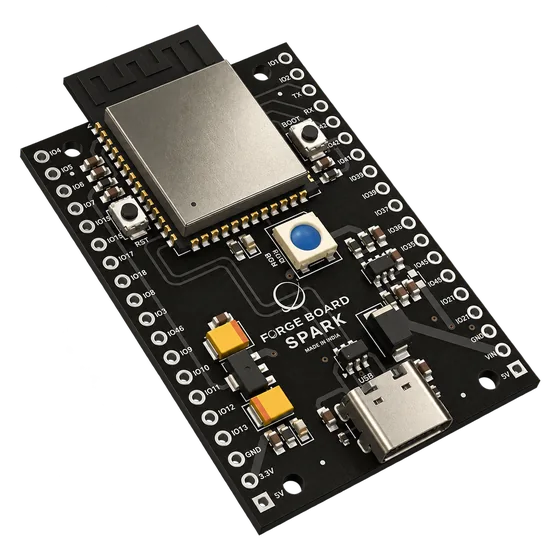
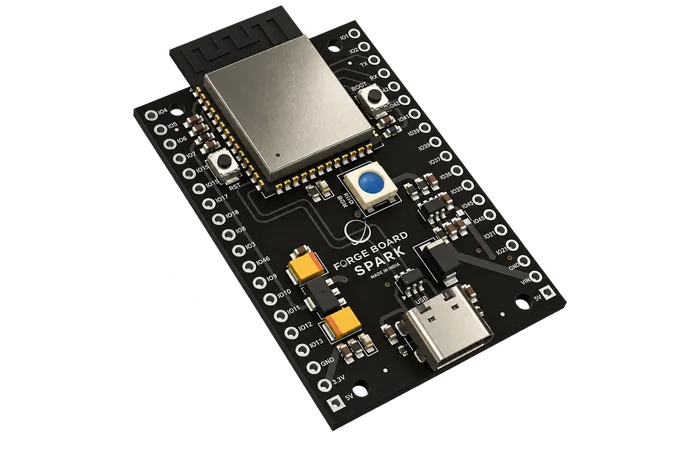
assets: keep the boards inside their rows, and centred in them
The square frames made every picture overflow its row and cut through the
divider below it. The cause is not obvious from the stylesheet: the row caps
its picture at 82%, but the picture's intrinsic size comes from srcset and
sizes, not from the file — here 341x341 — so on a square frame the cap lands
at 276px against a 217px slot and 50px of board hangs into the next row. The
old renders never showed it because they were landscape, where the cap falls
on the short side.

So the frame is 3:2 again, the shape the row was built around, with each
board's longest side at 62% of the width. That keeps what the square frame
was for — a portrait board and a landscape one reading the same size, which
normalising on height did not do — while the cap lands where the layout
expects. All four now measure 169-171px on their longest side, and the
pictures sit inside their rows: 60px of clearance above, 52 below.

Then the centring, measured off the rendered page rather than assumed. Each
board sat 4 to 8px below its row's centre line — part the picture box, part
where the PCB sits inside its own render, and different for each board. Each
is nudged up by its own measured amount. Clearances are now 74/74, 80/81,
68/68 and 79/79, and horizontally every board is within 3px of centre.

diff --git a/site/boards/sprint/index.html b/site/boards/sprint/index.html
@@ -43,10 +43,10 @@
       <div class="pdp-board">
       <fb-board src="../../assets/models/sprint.glb?v=59dbaf28"
         data-model="../../assets/models/sprint.glb?v=59dbaf28"
-        data-v-3d="../../assets/boards/sprint-3d.webp" data-s-3d="../../assets/boards/sprint-3d-sm.webp 560w, ../../assets/boards/sprint-3d.webp 1200w"
+        data-v-3d="../../assets/boards/sprint-3d.webp" data-s-3d="../../assets/boards/sprint-3d-sm.webp 700w, ../../assets/boards/sprint-3d.webp 1500w"
         data-v-top="../../assets/boards/sprint-top.webp" data-s-top="../../assets/boards/sprint-top-sm.webp 700w, ../../assets/boards/sprint-top.webp 1086w"
         data-v-bottom="../../assets/boards/sprint-bottom.webp" data-s-bottom="../../assets/boards/sprint-bottom-sm.webp 677w, ../../assets/boards/sprint-bottom.webp 1234w"
-        fallback="../../assets/boards/sprint-3d.webp" srcset="../../assets/boards/sprint-3d-sm.webp 560w, ../../assets/boards/sprint-3d.webp 1200w" sizes="(max-width:860px) 88vw, 55vw" alt="ForgeBoard Sprint 3D view" tilt="14" roll="225">
+        fallback="../../assets/boards/sprint-3d.webp" srcset="../../assets/boards/sprint-3d-sm.webp 700w, ../../assets/boards/sprint-3d.webp 1500w" sizes="(max-width:860px) 88vw, 55vw" alt="ForgeBoard Sprint 3D view" tilt="14" roll="225">
         <noscript><img src="../../assets/boards/sprint-3d-sm.webp" alt="ForgeBoard Sprint 3D view" style="width:100%;height:100%;object-fit:contain"></noscript>
       </fb-board>
       <div class="hs" data-hs-layer><p class="hs-lede eyebrow mono-muted">On the board</p><ol class="hs-list"><li class="hs-item"><button type="button" class="hs-pt hs-l" data-hs="dht" data-p="0.00342,0.01754,0.02412" data-n="0,1,0" data-side="l" data-spec="Sensors"><span class="hs-txt"><b>(DHT11)</b><i>Temperature + Humidity</i></span></button></li><li class="hs-item"><button type="button" class="hs-pt hs-l" data-hs="led" data-p="-0.00455,0.00267,0.00410" data-n="0,1,0" data-side="l" data-spec="LEDs"><span class="hs-txt"><b>LED</b></span></button></li><li class="hs-item"><button type="button" class="hs-pt hs-l" data-hs="buzzer" data-p="0.01600,0.01157,0.01845" data-n="0,1,0" data-side="l" data-spec="Sensors"><span class="hs-txt"><b>Piezo Buzzer</b></span></button></li><li class="hs-item"><button type="button" class="hs-pt hs-l" data-hs="ldr" data-p="0.02470,0.00604,0.01484" data-n="0,1,0" data-side="l" data-spec="Sensors"><span class="hs-txt"><b>LDR Sensor</b></span></button></li><li class="hs-item"><button type="button" class="hs-pt hs-l" data-hs="ir" data-p="0.02640,0.00990,0.00429" data-n="0,1,0" data-side="l" data-spec="Sensors"><span class="hs-txt"><b>Infrared Sensor</b></span></button></li><li class="hs-item"><button type="button" class="hs-pt hs-l" data-hs="bms" data-p="0.01098,0.00379,0.00456" data-n="0,1,0" data-side="l" data-spec="Battery"><span class="hs-txt"><b>Battery Charging (BMS)</b></span></button></li><li class="hs-item"><button type="button" class="hs-pt hs-r" data-hs="usb" data-p="-0.00980,0.00535,0.02126" data-n="0,1,0" data-side="r" data-spec="USB"><span class="hs-txt"><b>USB‑C for programming</b></span></button></li><li class="hs-item"><button type="button" class="hs-pt hs-r" data-hs="antenna" data-p="-0.02840,0.00304,-0.00180" data-n="0,1,0" data-side="r" data-spec="Wi‑Fi"><span class="hs-txt"><b>WiFi + BLE 5.0</b></span></button></li><li class="hs-item"><button type="button" class="hs-pt hs-r" data-hs="mcu" data-p="-0.01800,0.00514,-0.00190" data-n="0,1,0" data-side="r" data-spec="Processor"><span class="hs-txt"><b>ESP32 S3</b><i>Dual Core 240 MHz</i></span></button></li><li class="hs-item"><button type="button" class="hs-pt hs-r" data-hs="rgb" data-p="-0.00365,0.00334,-0.00905" data-n="0,1,0" data-side="r" data-spec="LEDs"><span class="hs-txt"><b>RGB LED</b><i>16M Colours</i></span></button></li><li class="hs-item"><button type="button" class="hs-pt hs-r" data-hs="gpio" data-p="-0.00540,0.00495,-0.01900" data-n="0,1,0" data-side="r" data-spec="GPIO"><span class="hs-txt"><b>19 GPIO Pins</b><i>SPI · I2C · UART · I2S · CAN · USB OTG</i></span></button></li><li class="hs-item"><button type="button" class="hs-pt hs-r" data-hs="charge" data-p="0.01134,0.00535,-0.02127" data-n="0,1,0" data-side="r" data-spec="Battery"><span class="hs-txt"><b>USB‑C for charging</b></span></button></li></ol><svg class="hs-wires" aria-hidden="true"></svg></div>

diff --git a/site/boards/index.html b/site/boards/index.html
@@ -52,7 +52,7 @@
             <h2><span class="nm">Spark</span><span class="tg">Start here.</span></h2>
             <p class="eyebrow mono-muted">ESP32‑S3 · 240 MHz dual‑core</p>
           </div>
-          <div class="art"><img src="../assets/boards/spark-3d.webp" srcset="../assets/boards/spark-3d-sm.webp 560w, ../assets/boards/spark-3d.webp 1200w" sizes="(max-width:860px) 70vw, 24vw" alt="ForgeBoard Spark board" loading="lazy" decoding="async"></div>
+          <div class="art"><img src="../assets/boards/spark-3d.webp" srcset="../assets/boards/spark-3d-sm.webp 700w, ../assets/boards/spark-3d.webp 1500w" sizes="(max-width:860px) 70vw, 24vw" alt="ForgeBoard Spark board" loading="lazy" decoding="async"></div>
           <ul class="hl"><li>Breadboard‑friendly, 32 GPIO</li><li>Wi‑Fi &amp; Bluetooth 5.0 built in</li><li>Survives static &amp; reversed power</li><li>USB‑C — no adapter, no driver hunt</li><li>RGB LED for your first “hello”</li><li>One-click flash from the ForgeBoard IDE</li></ul>
         </a>
       </li>
@@ -63,7 +63,7 @@
             <h2><span class="nm">Sprint</span><span class="tg">Ready before you are.</span></h2>
             <p class="eyebrow mono-muted">ESP32‑S3 · 240 MHz dual‑core</p>
           </div>
-          <div class="art"><img src="../assets/boards/sprint-3d.webp" srcset="../assets/boards/sprint-3d-sm.webp 560w, ../assets/boards/sprint-3d.webp 1200w" sizes="(max-width:860px) 70vw, 24vw" alt="ForgeBoard Sprint board" loading="lazy" decoding="async"></div>
+          <div class="art"><img src="../assets/boards/sprint-3d.webp" srcset="../assets/boards/sprint-3d-sm.webp 700w, ../assets/boards/sprint-3d.webp 1500w" sizes="(max-width:860px) 70vw, 24vw" alt="ForgeBoard Sprint board" loading="lazy" decoding="async"></div>
           <ul class="hl"><li>4 sensors &amp; a buzzer on board</li><li>Charges a Li‑ion cell — runs unplugged</li><li>Wi‑Fi &amp; Bluetooth 5.0 built in</li><li>19 GPIO still free for your parts</li><li>USB‑C, ESD &amp; thermal protection</li><li>Updates over the air — Wi‑Fi or BLE</li></ul>
         </a>
       </li>
@@ -74,7 +74,7 @@
             <h2><span class="nm">Indus</span><span class="tg">For your toughest challenges.</span></h2>
             <p class="eyebrow mono-muted">STM32G4 · 170 MHz Cortex‑M4F</p>
           </div>
-          <div class="art"><img src="../assets/boards/indus-3d.webp" srcset="../assets/boards/indus-3d-sm.webp 560w, ../assets/boards/indus-3d.webp 1200w" sizes="(max-width:860px) 70vw, 24vw" alt="ForgeBoard Indus board" loading="lazy" decoding="async"></div>
+          <div class="art"><img src="../assets/boards/indus-3d.webp" srcset="../assets/boards/indus-3d-sm.webp 700w, ../assets/boards/indus-3d.webp 1500w" sizes="(max-width:860px) 70vw, 24vw" alt="ForgeBoard Indus board" loading="lazy" decoding="async"></div>
           <ul class="hl"><li>Rated –40 to +85 °C</li><li>3 CAN FD buses at 8 Mbit/s</li><li>Encrypts in hardware, AES‑256</li><li>Shrugs off ±15 kV static</li><li>Drives motors with 184 ps timing</li><li>Debug over SWD, 50 GPIO</li></ul>
         </a>
       </li>
@@ -85,7 +85,7 @@
             <h2><span class="nm">Flint</span><span class="tg">Small board. Long reach.</span></h2>
             <p class="eyebrow mono-muted">ESP8266 · 80–160 MHz</p>
           </div>
-          <div class="art"><img src="../assets/boards/flint-3d.webp" srcset="../assets/boards/flint-3d-sm.webp 560w, ../assets/boards/flint-3d.webp 1200w" sizes="(max-width:860px) 70vw, 24vw" alt="ForgeBoard Flint board" loading="lazy" decoding="async"></div>
+          <div class="art"><img src="../assets/boards/flint-3d.webp" srcset="../assets/boards/flint-3d-sm.webp 700w, ../assets/boards/flint-3d.webp 1500w" sizes="(max-width:860px) 70vw, 24vw" alt="ForgeBoard Flint board" loading="lazy" decoding="async"></div>
           <ul class="hl"><li>50 × 30 mm</li><li>Months on a battery — 20 µA asleep</li><li>Wi‑Fi with +20 dBm on‑board antenna</li><li>USB‑C, no driver hunt</li><li>Reverse‑polarity protected</li><li>Same ForgeBoard IDE as the rest</li></ul>
         </a>
       </li>

diff --git a/site/store/index.html b/site/store/index.html
@@ -57,7 +57,7 @@
             <h2><span class="nm">Spark</span><span class="tg">Start here.</span></h2>
             <p class="eyebrow mono-muted">ESP32‑S3 · 240 MHz · Wi‑Fi 4 + BLE 5.0 · 32 GPIO</p>
           </div>
-          <div class="art"><img src="../assets/boards/spark-3d.webp" srcset="../assets/boards/spark-3d-sm.webp 560w, ../assets/boards/spark-3d.webp 1200w" sizes="(max-width:860px) 70vw, 24vw" alt="ForgeBoard Spark board" loading="lazy" decoding="async"></div>
+          <div class="art"><img src="../assets/boards/spark-3d.webp" srcset="../assets/boards/spark-3d-sm.webp 700w, ../assets/boards/spark-3d.webp 1500w" sizes="(max-width:860px) 70vw, 24vw" alt="ForgeBoard Spark board" loading="lazy" decoding="async"></div>
           <ul class="hl"><li>Ships from Pune</li><li>Priced in ₹, GST invoice</li><li>Specs &amp; order →</li></ul>
         </a>
       </li>
@@ -68,7 +68,7 @@
             <h2><span class="nm">Sprint</span><span class="tg">Ready before you are.</span></h2>
             <p class="eyebrow mono-muted">ESP32‑S3 · 240 MHz · Wi‑Fi 4 + BLE 5.0 · 19 GPIO</p>
           </div>
-          <div class="art"><img src="../assets/boards/sprint-3d.webp" srcset="../assets/boards/sprint-3d-sm.webp 560w, ../assets/boards/sprint-3d.webp 1200w" sizes="(max-width:860px) 70vw, 24vw" alt="ForgeBoard Sprint board" loading="lazy" decoding="async"></div>
+          <div class="art"><img src="../assets/boards/sprint-3d.webp" srcset="../assets/boards/sprint-3d-sm.webp 700w, ../assets/boards/sprint-3d.webp 1500w" sizes="(max-width:860px) 70vw, 24vw" alt="ForgeBoard Sprint board" loading="lazy" decoding="async"></div>
           <ul class="hl"><li>Ships from Pune</li><li>Priced in ₹, GST invoice</li><li>Specs &amp; order →</li></ul>
         </a>
       </li>
@@ -79,7 +79,7 @@
             <h2><span class="nm">Indus</span><span class="tg">For your toughest challenges.</span></h2>
             <p class="eyebrow mono-muted">STM32G484 · 170 MHz · 50 GPIO</p>
           </div>
-          <div class="art"><img src="../assets/boards/indus-3d.webp" srcset="../assets/boards/indus-3d-sm.webp 560w, ../assets/boards/indus-3d.webp 1200w" sizes="(max-width:860px) 70vw, 24vw" alt="ForgeBoard Indus board" loading="lazy" decoding="async"></div>
+          <div class="art"><img src="../assets/boards/indus-3d.webp" srcset="../assets/boards/indus-3d-sm.webp 700w, ../assets/boards/indus-3d.webp 1500w" sizes="(max-width:860px) 70vw, 24vw" alt="ForgeBoard Indus board" loading="lazy" decoding="async"></div>
           <ul class="hl"><li>Ships from Pune</li><li>Priced in ₹, GST invoice</li><li>Specs &amp; order →</li></ul>
         </a>
       </li>
@@ -90,7 +90,7 @@
             <h2><span class="nm">Flint</span><span class="tg">Small board. Long reach.</span></h2>
             <p class="eyebrow mono-muted">ESP8266EX · 80–160 MHz · Wi‑Fi 4 · 12 GPIO</p>
           </div>
-          <div class="art"><img src="../assets/boards/flint-3d.webp" srcset="../assets/boards/flint-3d-sm.webp 560w, ../assets/boards/flint-3d.webp 1200w" sizes="(max-width:860px) 70vw, 24vw" alt="ForgeBoard Flint board" loading="lazy" decoding="async"></div>
+          <div class="art"><img src="../assets/boards/flint-3d.webp" srcset="../assets/boards/flint-3d-sm.webp 700w, ../assets/boards/flint-3d.webp 1500w" sizes="(max-width:860px) 70vw, 24vw" alt="ForgeBoard Flint board" loading="lazy" decoding="async"></div>
           <ul class="hl"><li>Ships from Pune</li><li>Priced in ₹, GST invoice</li><li>Specs &amp; order →</li></ul>
         </a>
       </li>

diff --git a/site/boards/indus/index.html b/site/boards/indus/index.html
@@ -43,10 +43,10 @@
       <div class="pdp-board">
       <fb-board src="../../assets/models/indus.glb?v=6863ef5b"
         data-model="../../assets/models/indus.glb?v=6863ef5b"
-        data-v-3d="../../assets/boards/indus-3d.webp" data-s-3d="../../assets/boards/indus-3d-sm.webp 560w, ../../assets/boards/indus-3d.webp 1200w"
+        data-v-3d="../../assets/boards/indus-3d.webp" data-s-3d="../../assets/boards/indus-3d-sm.webp 700w, ../../assets/boards/indus-3d.webp 1500w"
         data-v-top="../../assets/boards/indus-top.webp" data-s-top="../../assets/boards/indus-top-sm.webp 466w, ../../assets/boards/indus-top.webp 933w"
         data-v-bottom="../../assets/boards/indus-bottom.webp" data-s-bottom="../../assets/boards/indus-bottom-sm.webp 466w, ../../assets/boards/indus-bottom.webp 933w"
-        fallback="../../assets/boards/indus-3d.webp" srcset="../../assets/boards/indus-3d-sm.webp 560w, ../../assets/boards/indus-3d.webp 1200w" sizes="(max-width:860px) 88vw, 55vw" alt="ForgeBoard Indus 3D view" tilt="14" roll="30">
+        fallback="../../assets/boards/indus-3d.webp" srcset="../../assets/boards/indus-3d-sm.webp 700w, ../../assets/boards/indus-3d.webp 1500w" sizes="(max-width:860px) 88vw, 55vw" alt="ForgeBoard Indus 3D view" tilt="14" roll="30">
         <noscript><img src="../../assets/boards/indus-3d-sm.webp" alt="ForgeBoard Indus 3D view" style="width:100%;height:100%;object-fit:contain"></noscript>
       </fb-board>
       <div class="hs" data-hs-layer><p class="hs-lede eyebrow mono-muted">On the board</p><ol class="hs-list"><li class="hs-item"><button type="button" class="hs-pt hs-l" data-hs="mcu" data-p="0.00043,0.00354,-0.00927" data-n="0,1,0" data-side="l" data-spec="Processor"><span class="hs-txt"><b>STM32G484</b><i>Cortex‑M4F · 170 MHz</i></span></button></li><li class="hs-item"><button type="button" class="hs-pt hs-l" data-hs="xtal" data-p="0.00086,0.00317,-0.02000" data-n="0,1,0" data-side="l" data-spec="Timers &amp; PWM"><span class="hs-txt"><b>Crystal</b><i>External oscillator</i></span></button></li><li class="hs-item"><button type="button" class="hs-pt hs-r" data-hs="usb" data-p="0.00003,0.00535,0.02432" data-n="0,1,0" data-side="r" data-spec="USB"><span class="hs-txt"><b>USB‑C</b><i>Power + programming</i></span></button></li><li class="hs-item"><button type="button" class="hs-pt hs-l" data-hs="rgb" data-p="-0.00932,0.00334,0.00240" data-n="0,1,0" data-side="l" data-spec="LEDs"><span class="hs-txt"><b>RGB LED</b><i>16M Colours · PA12</i></span></button></li><li class="hs-item"><button type="button" class="hs-pt hs-r" data-hs="boot" data-p="0.00944,0.00404,-0.01541" data-n="0,1,0" data-side="r" data-spec="Buttons"><span class="hs-txt"><b>BOOT</b></span></button></li><li class="hs-item"><button type="button" class="hs-pt hs-r" data-hs="rst" data-p="0.00406,0.00404,0.00030" data-n="0,1,0" data-side="r" data-spec="Buttons"><span class="hs-txt"><b>RST</b></span></button></li><li class="hs-item"><button type="button" class="hs-pt hs-l" data-hs="swd" data-p="0.00000,0.00495,-0.02400" data-n="0,1,0" data-side="l" data-spec="Debug"><span class="hs-txt"><b>SWD Debug</b><i>SWCLK · SWDIO · SWO</i></span></button></li><li class="hs-item"><button type="button" class="hs-pt hs-r" data-hs="gpio" data-p="0.01500,0.00495,0.00200" data-n="0,1,0" data-side="r" data-spec="GPIO"><span class="hs-txt"><b>50 GPIO Pins</b><i>CAN FD · I2C · SPI · UART</i></span></button></li></ol><svg class="hs-wires" aria-hidden="true"></svg></div>

diff --git a/site/boards/spark/index.html b/site/boards/spark/index.html
@@ -43,10 +43,10 @@
       <div class="pdp-board">
       <fb-board src="../../assets/models/spark.glb?v=510ef41c"
         data-model="../../assets/models/spark.glb?v=510ef41c"
-        data-v-3d="../../assets/boards/spark-3d.webp" data-s-3d="../../assets/boards/spark-3d-sm.webp 560w, ../../assets/boards/spark-3d.webp 1200w"
+        data-v-3d="../../assets/boards/spark-3d.webp" data-s-3d="../../assets/boards/spark-3d-sm.webp 700w, ../../assets/boards/spark-3d.webp 1500w"
         data-v-top="../../assets/boards/spark-top.webp" data-s-top="../../assets/boards/spark-top-sm.webp 466w, ../../assets/boards/spark-top.webp 933w"
         data-v-bottom="../../assets/boards/spark-bottom.webp" data-s-bottom="../../assets/boards/spark-bottom-sm.webp 466w, ../../assets/boards/spark-bottom.webp 933w"
-        fallback="../../assets/boards/spark-3d.webp" srcset="../../assets/boards/spark-3d-sm.webp 560w, ../../assets/boards/spark-3d.webp 1200w" sizes="(max-width:860px) 88vw, 55vw" alt="ForgeBoard Spark 3D view" tilt="14" roll="45">
+        fallback="../../assets/boards/spark-3d.webp" srcset="../../assets/boards/spark-3d-sm.webp 700w, ../../assets/boards/spark-3d.webp 1500w" sizes="(max-width:860px) 88vw, 55vw" alt="ForgeBoard Spark 3D view" tilt="14" roll="45">
         <noscript><img src="../../assets/boards/spark-3d-sm.webp" alt="ForgeBoard Spark 3D view" style="width:100%;height:100%;object-fit:contain"></noscript>
       </fb-board>
       <div class="hs" data-hs-layer><p class="hs-lede eyebrow mono-muted">On the board</p><ol class="hs-list"><li class="hs-item"><button type="button" class="hs-pt hs-l" data-hs="mcu" data-p="0.00030,0.00514,-0.01540" data-n="0,1,0" data-side="l" data-spec="Processor"><span class="hs-txt"><b>ESP32 S3</b><i>Dual Core 240 MHz</i></span></button></li><li class="hs-item"><button type="button" class="hs-pt hs-l" data-hs="antenna" data-p="0.00020,0.00304,-0.02579" data-n="0,1,0" data-side="l" data-spec="Wi‑Fi"><span class="hs-txt"><b>WiFi + BLE 5.0</b></span></button></li><li class="hs-item"><button type="button" class="hs-pt hs-r" data-hs="usb" data-p="0.00063,0.00535,0.02128" data-n="0,1,0" data-side="r" data-spec="USB"><span class="hs-txt"><b>USB‑C</b><i>Power + programming</i></span></button></li><li class="hs-item"><button type="button" class="hs-pt hs-r" data-hs="rgb" data-p="0.00390,0.00334,-0.00050" data-n="0,1,0" data-side="r" data-spec="LEDs"><span class="hs-txt"><b>RGB LED</b><i>16M Colours · IO14</i></span></button></li><li class="hs-item"><button type="button" class="hs-pt hs-l" data-hs="rst" data-p="-0.01160,0.00404,-0.01172" data-n="0,1,0" data-side="l" data-spec="Buttons"><span class="hs-txt"><b>RST</b></span></button></li><li class="hs-item"><button type="button" class="hs-pt hs-r" data-hs="boot" data-p="0.01171,0.00404,-0.01167" data-n="0,1,0" data-side="r" data-spec="Buttons"><span class="hs-txt"><b>BOOT</b></span></button></li><li class="hs-item"><button type="button" class="hs-pt hs-l" data-hs="reg" data-p="-0.01045,0.00356,0.01025" data-n="0,1,0" data-side="l" data-spec="Input"><span class="hs-txt"><b>Voltage Regulator</b><i>Dual rail · 5–12 V in</i></span></button></li><li class="hs-item"><button type="button" class="hs-pt hs-r" data-hs="gpio" data-p="0.01400,0.00495,0.00200" data-n="0,1,0" data-side="r" data-spec="GPIO"><span class="hs-txt"><b>32 GPIO Pins</b><i>ADC · UART · SPI · I2C · I2S</i></span></button></li></ol><svg class="hs-wires" aria-hidden="true"></svg></div>

diff --git a/site/boards/flint/index.html b/site/boards/flint/index.html
@@ -43,10 +43,10 @@
       <div class="pdp-board">
       <fb-board src="../../assets/models/flint.glb?v=24b6f183"
         data-model="../../assets/models/flint.glb?v=24b6f183"
-        data-v-3d="../../assets/boards/flint-3d.webp" data-s-3d="../../assets/boards/flint-3d-sm.webp 560w, ../../assets/boards/flint-3d.webp 1200w"
+        data-v-3d="../../assets/boards/flint-3d.webp" data-s-3d="../../assets/boards/flint-3d-sm.webp 700w, ../../assets/boards/flint-3d.webp 1500w"
         data-v-top="../../assets/boards/flint-top.webp" data-s-top="../../assets/boards/flint-top-sm.webp 466w, ../../assets/boards/flint-top.webp 933w"
         data-v-bottom="../../assets/boards/flint-bottom.webp" data-s-bottom="../../assets/boards/flint-bottom-sm.webp 466w, ../../assets/boards/flint-bottom.webp 933w"
-        fallback="../../assets/boards/flint-3d.webp" srcset="../../assets/boards/flint-3d-sm.webp 560w, ../../assets/boards/flint-3d.webp 1200w" sizes="(max-width:860px) 88vw, 55vw" alt="ForgeBoard Flint 3D view" tilt="14" roll="30">
+        fallback="../../assets/boards/flint-3d.webp" srcset="../../assets/boards/flint-3d-sm.webp 700w, ../../assets/boards/flint-3d.webp 1500w" sizes="(max-width:860px) 88vw, 55vw" alt="ForgeBoard Flint 3D view" tilt="14" roll="30">
         <noscript><img src="../../assets/boards/flint-3d-sm.webp" alt="ForgeBoard Flint 3D view" style="width:100%;height:100%;object-fit:contain"></noscript>
       </fb-board>
       <div class="hs" data-hs-layer><p class="hs-lede eyebrow mono-muted">On the board</p><ol class="hs-list"><li class="hs-item"><button type="button" class="hs-pt hs-l" data-hs="mcu" data-p="-0.00010,0.00444,-0.01753" data-n="0,1,0" data-side="l" data-spec="Processor"><span class="hs-txt"><b>ESP8266EX</b><i>80 – 160 MHz</i></span></button></li><li class="hs-item"><button type="button" class="hs-pt hs-l" data-hs="antenna" data-p="-0.00155,0.00284,-0.02893" data-n="0,1,0" data-side="l" data-spec="Wi‑Fi"><span class="hs-txt"><b>WiFi 802.11 b/g/n</b></span></button></li><li class="hs-item"><button type="button" class="hs-pt hs-r" data-hs="usb" data-p="0.00039,0.00535,0.02132" data-n="0,1,0" data-side="r" data-spec="USB"><span class="hs-txt"><b>USB‑C</b><i>Power + programming</i></span></button></li><li class="hs-item"><button type="button" class="hs-pt hs-l" data-hs="rst" data-p="-0.01173,0.00404,-0.01416" data-n="0,1,0" data-side="l" data-spec="Buttons"><span class="hs-txt"><b>RST</b></span></button></li><li class="hs-item"><button type="button" class="hs-pt hs-r" data-hs="boot" data-p="0.01144,0.00404,-0.00930" data-n="0,1,0" data-side="r" data-spec="Buttons"><span class="hs-txt"><b>BOOT</b></span></button></li><li class="hs-item"><button type="button" class="hs-pt hs-r" data-hs="gpio" data-p="0.01150,0.00495,0.00600" data-n="0,1,0" data-side="r" data-spec="GPIO"><span class="hs-txt"><b>12 GPIO Pins</b><i>SPI · UART · I2S · PWM</i></span></button></li></ol><svg class="hs-wires" aria-hidden="true"></svg></div>
